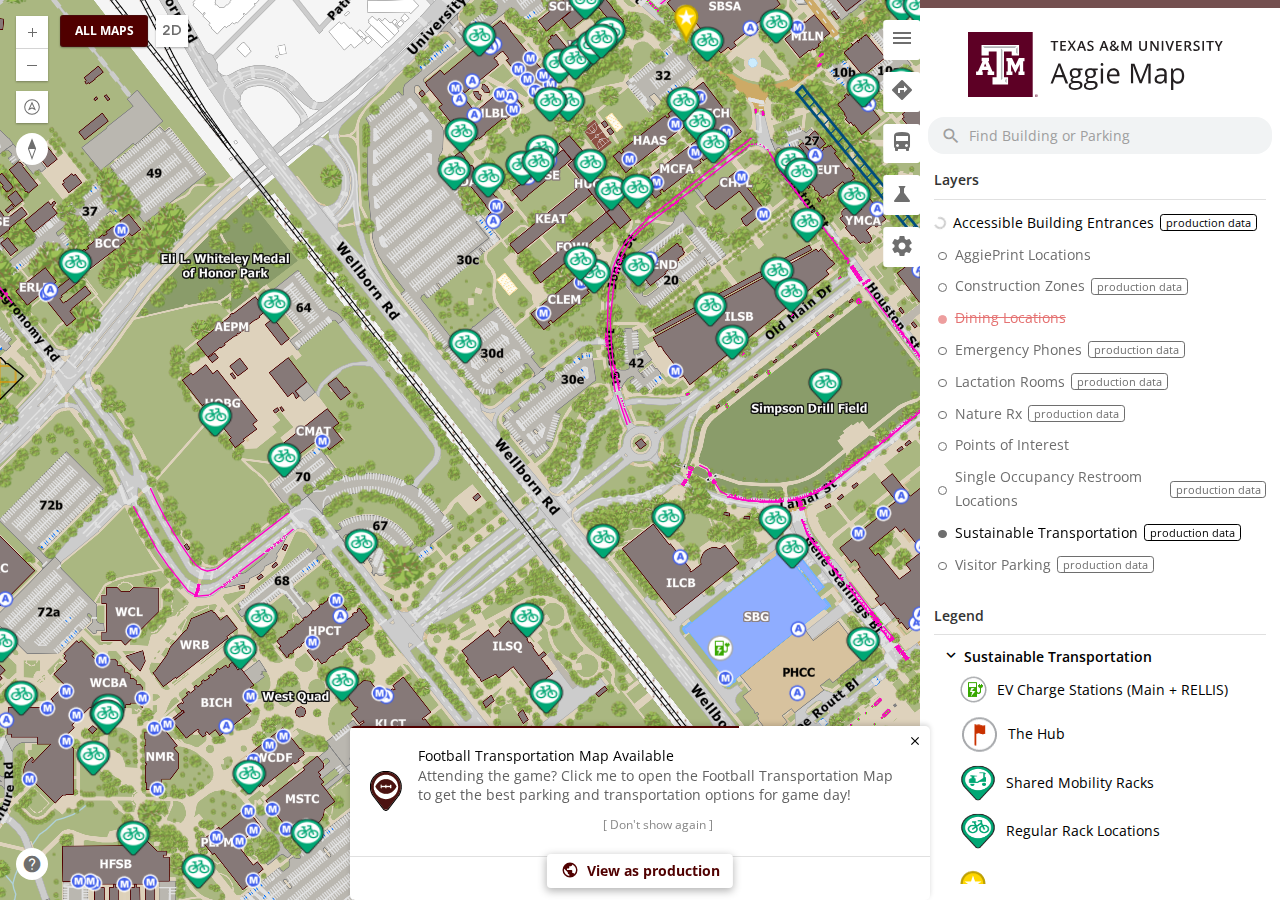
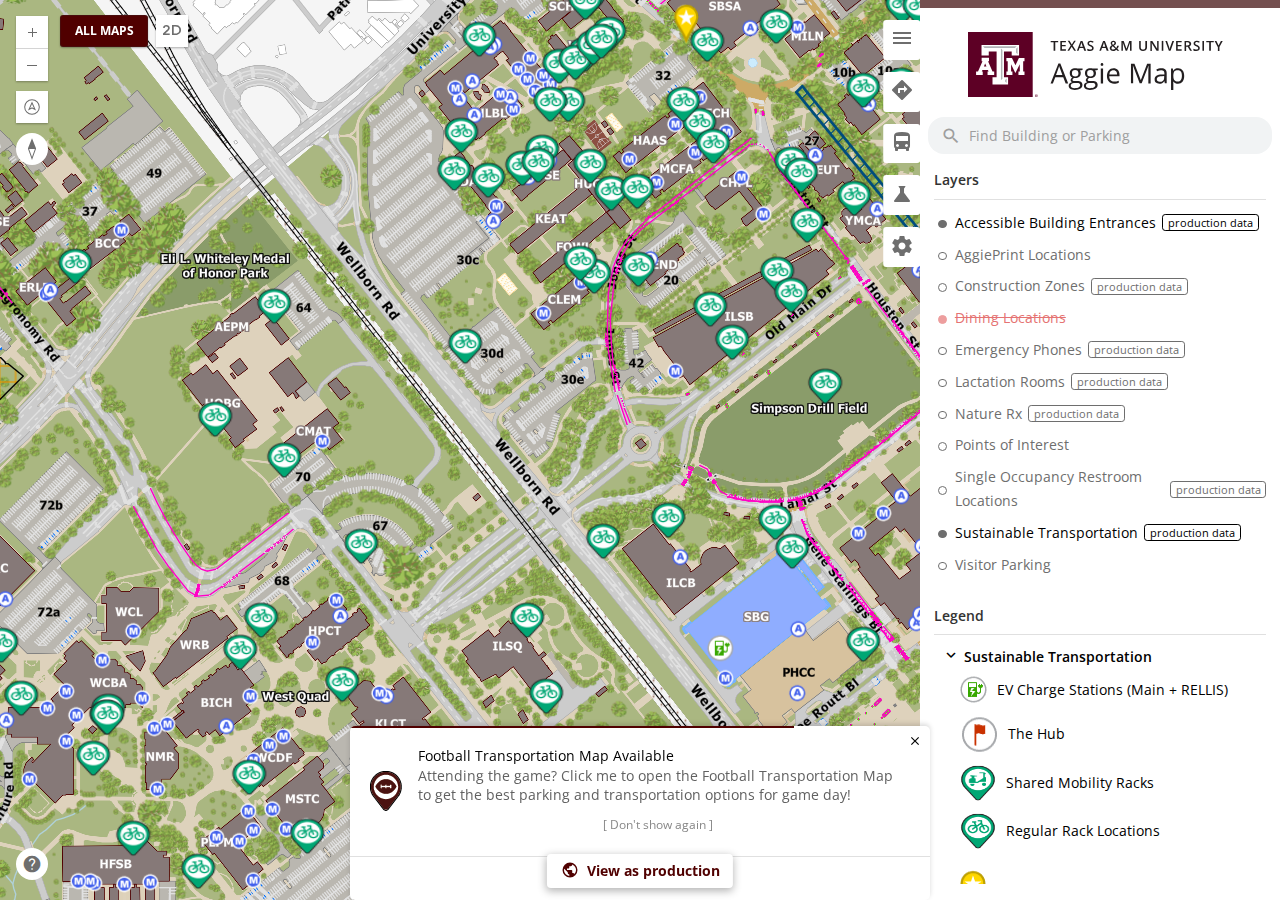
docs(releases): Visitor Parking reads dev; construction's pin explained (#2756)

diff --git a/docs/releases/unreleased/2744-bike-layers-on-dev.md b/docs/releases/unreleased/2744-bike-layers-on-dev.md
@@ -2,7 +2,7 @@
 issue: 2744
 title: Nine layers that were dead on dev draw, and dev marks what it reads from production
 testOnDev: |
-  | AggieMap: the bike layers, building entrances, emergency phones and restrooms draw on dev ([#2744](https://github.com/TamuGeoInnovation/Tamu.GeoInnovation.js.monorepo/issues/2744)) | [dev.aggiemap.tamu.edu/map](https://dev.aggiemap.tamu.edu/map), turn on Sustainable Transportation, Accessible Building Entrances, Emergency Phones and Single Occupancy Restroom Locations | All four draw and none is struck through. Each, and every other layer dev reads from production (Construction Zones, Visitor Parking, Lactation Rooms, Nature Rx), carries a small "production data" label that explains itself on hover. On [aggiemap.tamu.edu/map](https://aggiemap.tamu.edu/map) no layer has the label |
+  | AggieMap: the bike layers, building entrances, emergency phones and restrooms draw on dev ([#2744](https://github.com/TamuGeoInnovation/Tamu.GeoInnovation.js.monorepo/issues/2744)) | [dev.aggiemap.tamu.edu/map](https://dev.aggiemap.tamu.edu/map), turn on Sustainable Transportation, Accessible Building Entrances, Emergency Phones and Single Occupancy Restroom Locations | All four draw and none is struck through. Each, and every other layer dev reads from production (Construction Zones, Lactation Rooms, Nature Rx), carries a small "production data" label that explains itself on hover. On [aggiemap.tamu.edu/map](https://aggiemap.tamu.edu/map) no layer has the label |
 ---
 
 ### AggieMap: nine layers that were dead on dev draw, and dev marks what it reads from production
@@ -18,6 +18,13 @@ On dev, the Layers list marks every layer read from production with a small **pr
 shows why. A group is marked when a layer in it is, since the list shows Sustainable Transportation as one row. The
 label comes from the same list that sends a layer to production, so the two cannot disagree, and it never appears on
 production.
+
+Seeing the labels showed that two pins were wider than their reasons ([#2756](https://github.com/TamuGeoInnovation/Tamu.GeoInnovation.js.monorepo/issues/2756)).
+All of Transportation's TS_Main service was read from production because one of its eight layers, Parking Lots, keeps
+its space counts under a different name on the development server. Now only Parking Lots is, and Visitor Parking and
+the other six layers read dev's own copy, which matches production field for field. Construction Zones stays on
+production, now with the reason written beside it: dev's construction service answers without any shapes, so it would
+draw nothing.
 
 The smoke suite now fails on any service dev cannot read, or any layer it lacks, while production serves it, rather
 than letting one be allowed as a known failure, as these nine were for a year. That check is what found the last three.
